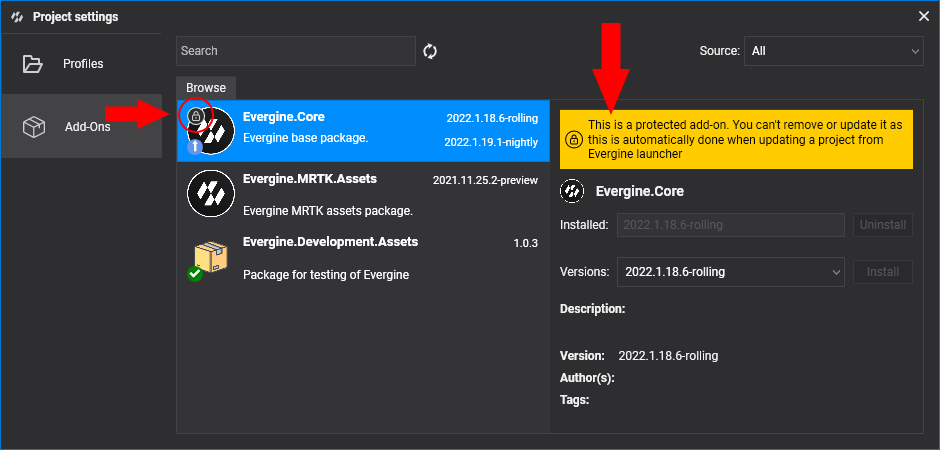
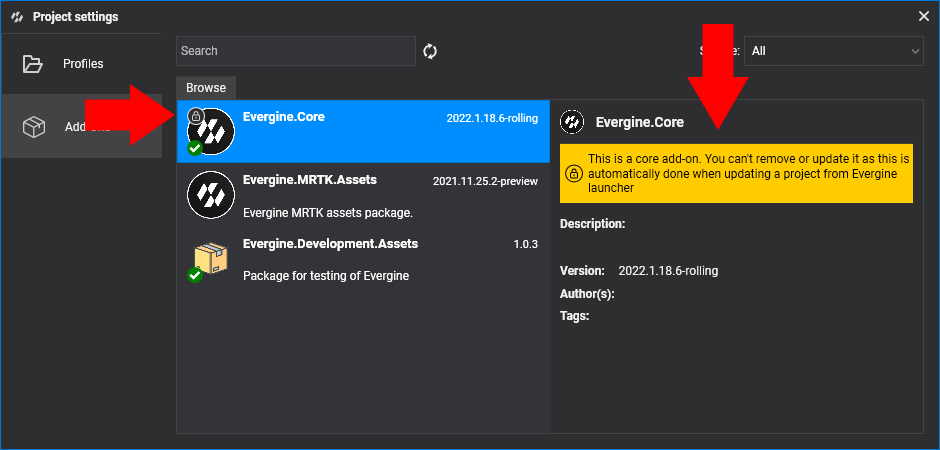
Update image and rename

diff --git a/manual/evergine_studio/packages.md b/manual/evergine_studio/packages.md
@@ -69,7 +69,7 @@ If you modify the collection of used packages, Evergine Studio will be reloaded 
 > [!Note]
 > Notice that to use packages that have third NuGet package dependencies, you still need to install them by hand. Add the nuget dependencies to your root project, the one that contains the `EvergineContent.cs` file.
 
-### Protected add-ons
+### Core add-ons
 Some packages like _Evergine.Core_ are required to be synchronized with project's Evergine version, so they are considered as special packages and can't be managed using this panel.
 
 ![evergine studio packages manager](Images/package_manager_protected.png)
